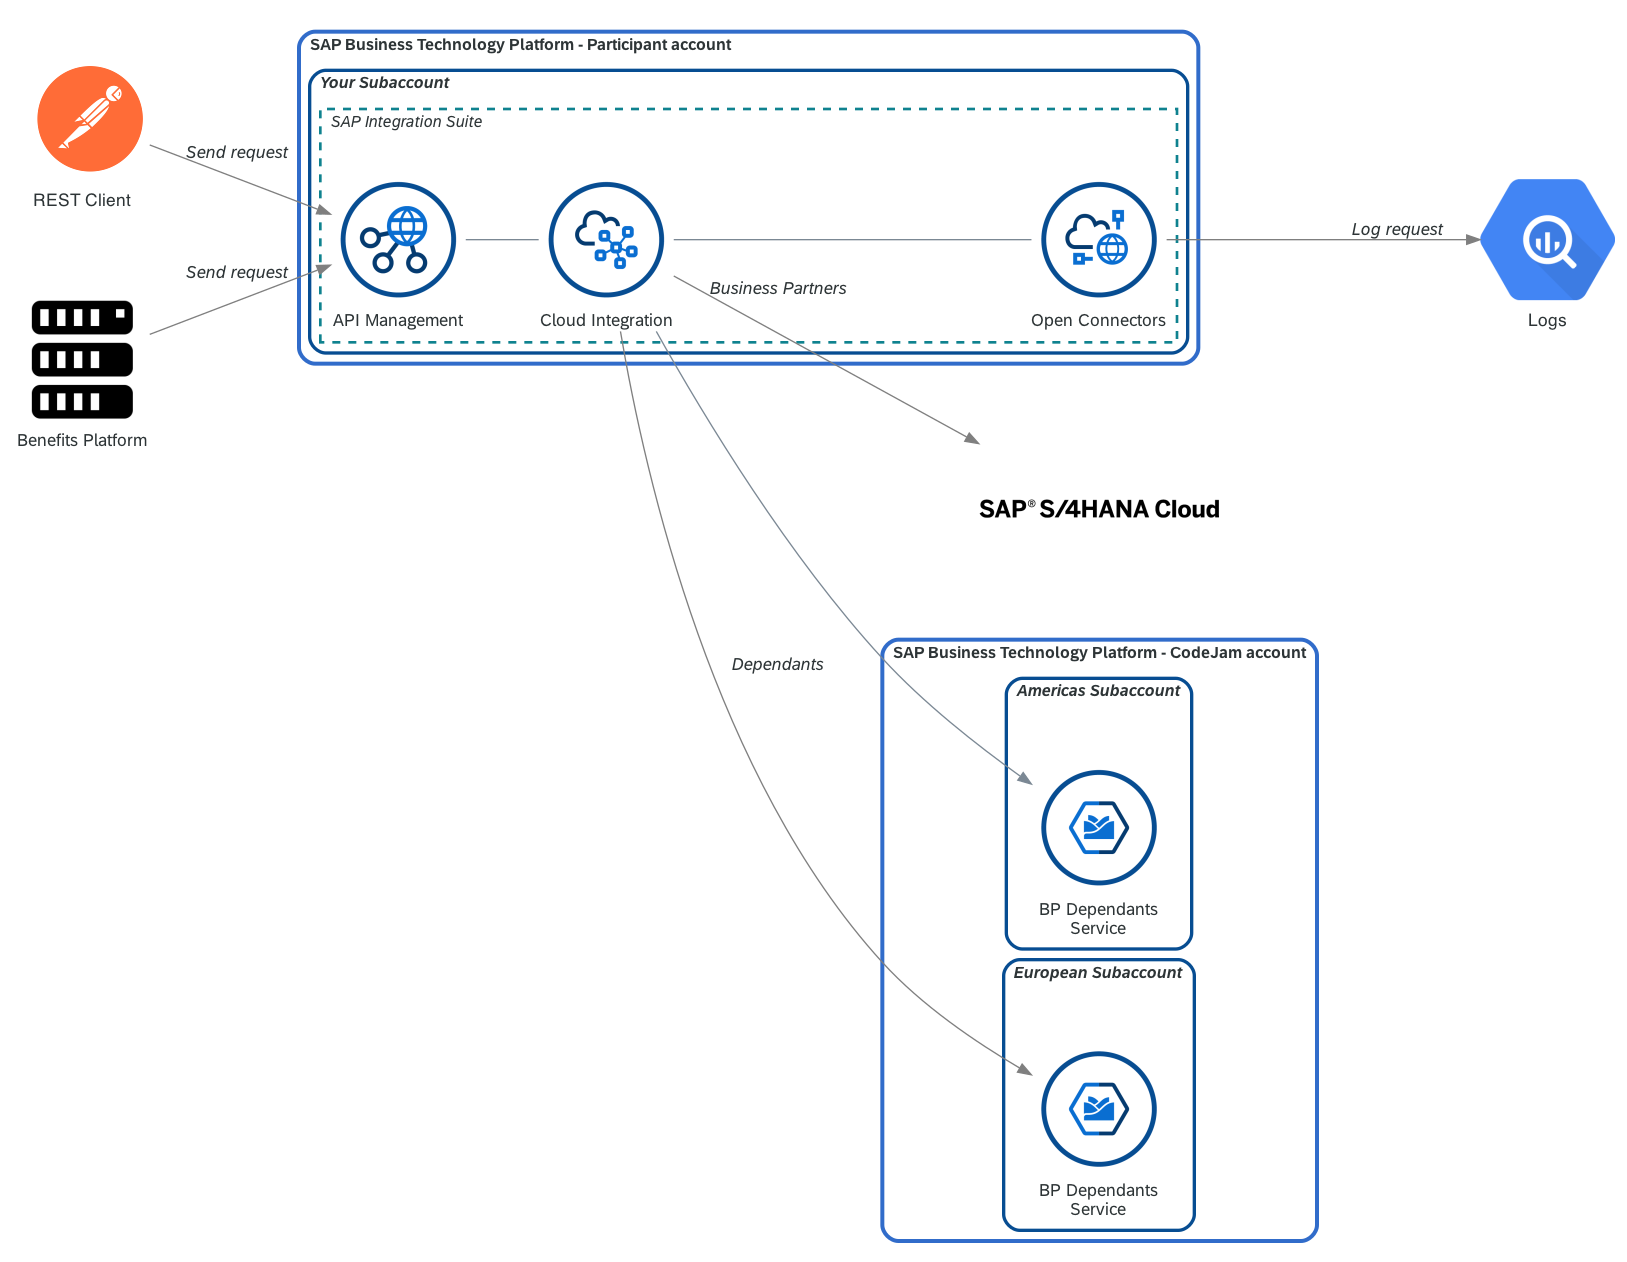
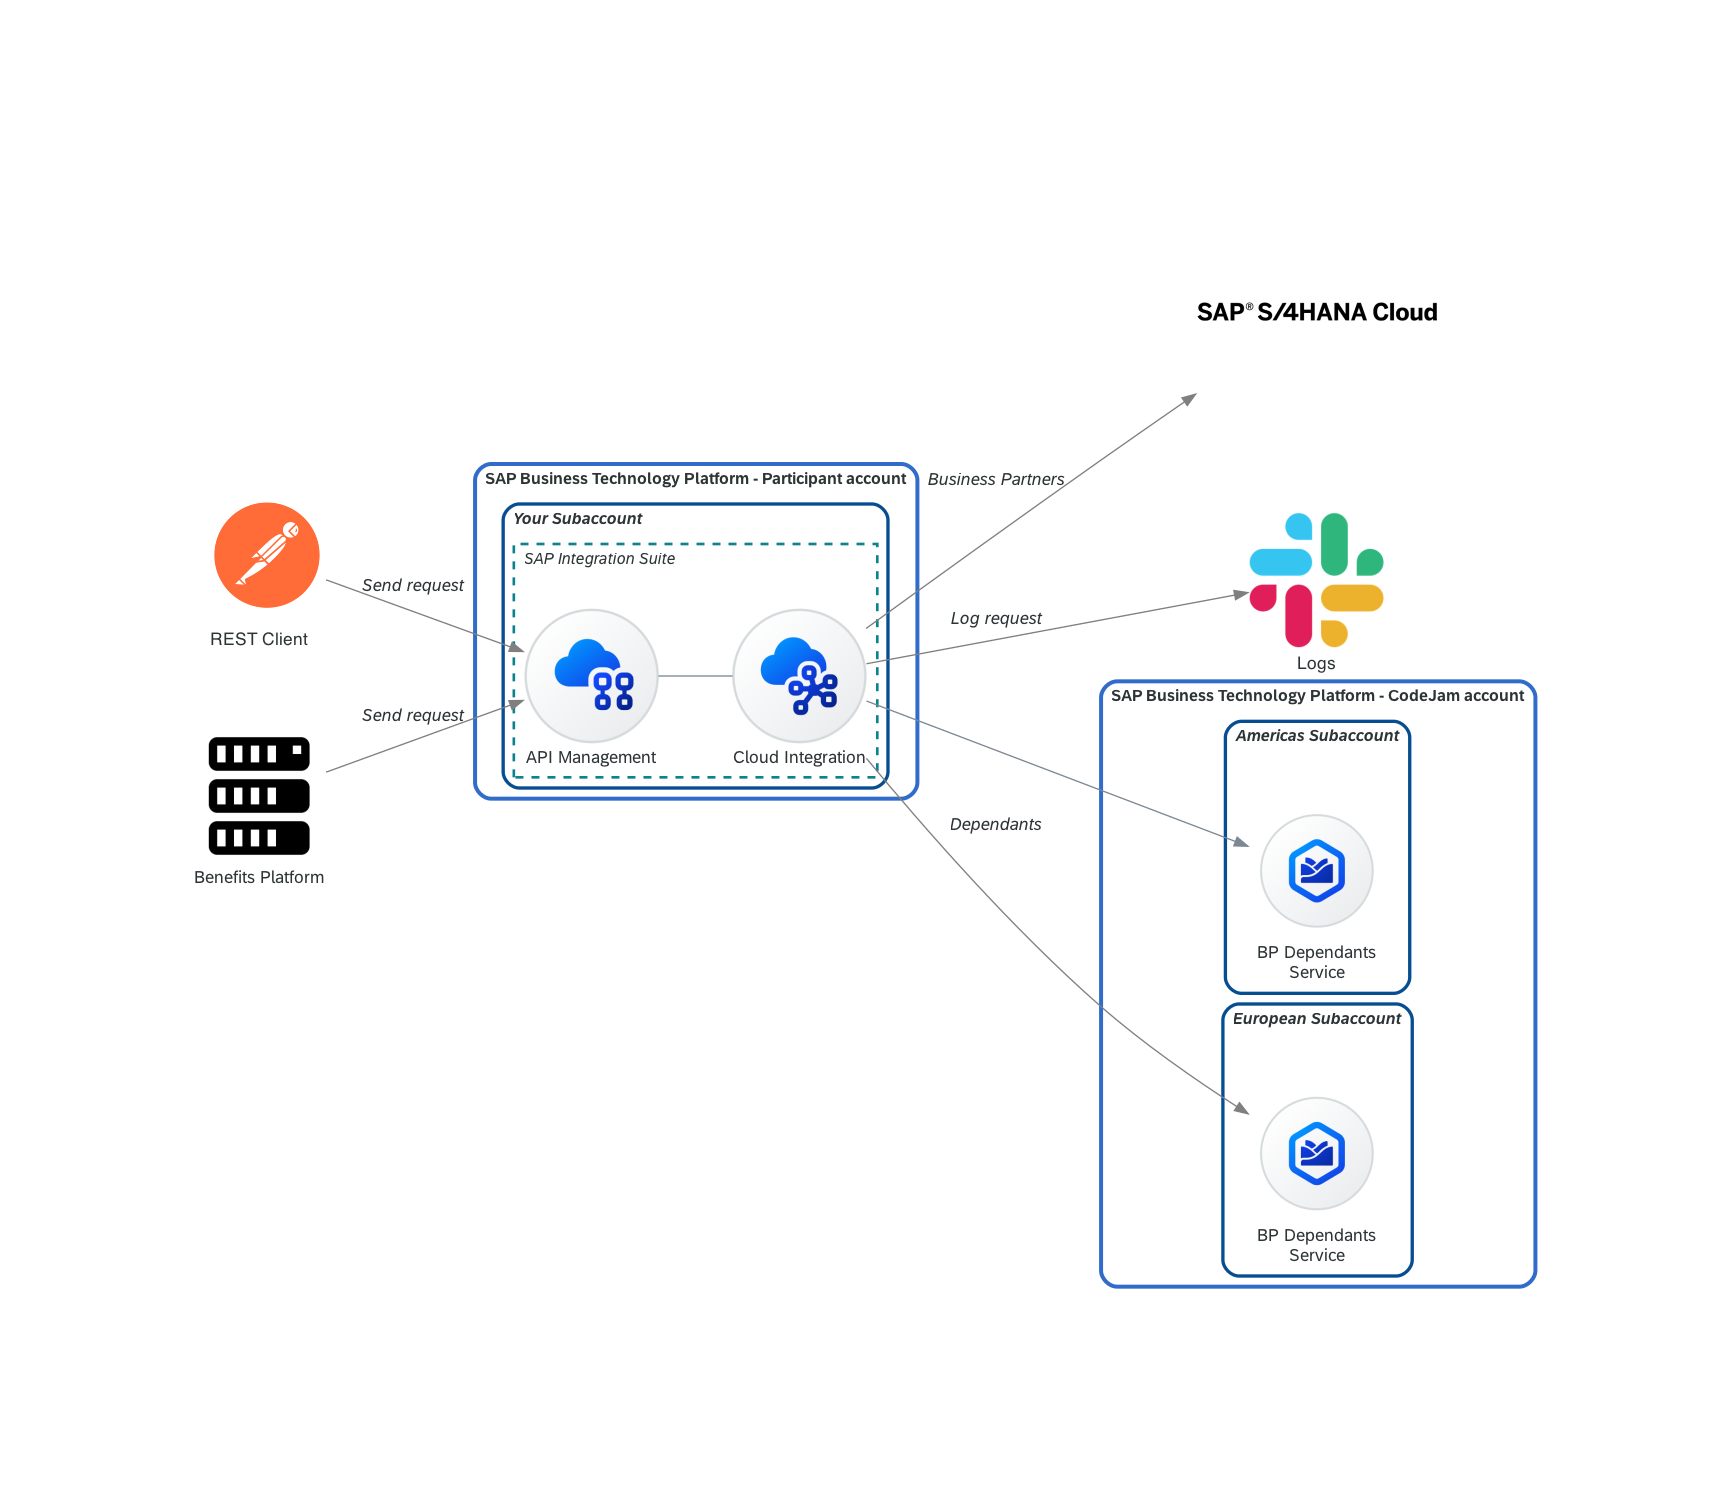
Replacing BQ with Slack in diagrams

diff --git a/exercises/05-log-requests-in-slack/assets/diagrams/slack-diagram.py b/exercises/05-log-requests-in-slack/assets/diagrams/slack-diagram.py
@@ -1,8 +1,6 @@
-# tech-byte-diagram.py
-from diagrams import Cluster, Diagram, Edge
-from diagrams.onprem.compute import Server
+from diagrams import Cluster, Diagram, Edge, Node
 from diagrams.custom import Custom
-from diagrams.sap.integration import CloudIntegration, OpenConnectors, APIManagement
+from diagrams.sap.integration import CloudIntegration
 from diagrams.sap.runtimes import KymaRuntime
 from diagrams.saas.chat import Slack
 from diagrams.sap.erp import SAPS4HANACloud
@@ -24,34 +22,31 @@ PRIMARY_EMPHASIZE_AREA_GRAPH_ATTR = {
 NODE_LABEL = {"fontname": "72 Regular"}
 EDGE_LABEL = {"color": FIX_GREY_COLOUR, "fontname": "72 Italic"}
 
-with Diagram("", show=False, filename="final_data_flow", graph_attr={"splines": "true"}):
-    rest_client = Custom("REST Client", "../postman-logo.png")
-    benefits_platform = Server("Benefits Platform", **NODE_LABEL)
+with Diagram("", show=False, filename="slack_data_flow", graph_attr={"splines": "true"}):
+    rest_client = Custom("REST Client", "../../../../assets/postman-logo.png")
     sap_server = SAPS4HANACloud(**{"height": "2.5", "width": "2.5"})
     slack = Slack("Logs")
 
     with Cluster("SAP Business Technology Platform - CodeJam account", graph_attr=GLOBALACCOUNT_GRAPH_ATTR):
-        with Cluster("Americas subaccount", graph_attr=SUBACCOUNT_GRAPH_ATTR):
-            americas_service = KymaRuntime("BP Dependants\nService", **NODE_LABEL)
-
         with Cluster("European subaccount", graph_attr=SUBACCOUNT_GRAPH_ATTR):
             european_service = KymaRuntime("BP Dependants\nService", **NODE_LABEL)
+        
+        with Cluster("Americas subaccount", graph_attr=SUBACCOUNT_GRAPH_ATTR):
+            americas_service = KymaRuntime("BP Dependants\nService", **NODE_LABEL)
             
     with Cluster("SAP Business Technology Platform - Participant account", graph_attr=GLOBALACCOUNT_GRAPH_ATTR):
         with Cluster("Your subaccount", graph_attr=SUBACCOUNT_GRAPH_ATTR):
             with Cluster("SAP Integration Suite", graph_attr=PRIMARY_EMPHASIZE_AREA_GRAPH_ATTR):
                 cloud_integration = CloudIntegration("Cloud Integration", **NODE_LABEL)
-                api_management = APIManagement("API Management", **NODE_LABEL)
                 
                 cloud_integration >> Edge(label="Business Partners", **EDGE_LABEL) >> sap_server
 
+                cloud_integration >> Edge(label="Dependants", **EDGE_LABEL) >> european_service
+                
+                cloud_integration >> Edge(label="Dependants", **EDGE_LABEL) >> americas_service
+
+                rest_client >> Edge(label="Send request", **EDGE_LABEL) >> cloud_integration
+
                 cloud_integration >> Edge(label="Log request", **EDGE_LABEL) >> slack
 
-                cloud_integration >> americas_service
-
-                cloud_integration >> Edge(label="Dependants", **EDGE_LABEL) >> european_service
-
-
-                benefits_platform >> Edge(label="Send request", orientation="135", **EDGE_LABEL) >> api_management
-                rest_client >> Edge(label="Send request", **EDGE_LABEL) >> api_management
-                api_management - cloud_integration
+                

diff --git a/exercises/04.1-retrieve-bp-dependants/assets/diagrams/bp-diagram.py b/exercises/04.1-retrieve-bp-dependants/assets/diagrams/bp-diagram.py
@@ -7,7 +7,6 @@ from diagrams.custom import Custom
 from diagrams.sap.other import Placeholder_Circle
 from diagrams.sap.integration import ProcessIntegration_Circle, OpenConnectors_Circle, APIManagement_Circle
 from diagrams.sap.runtimes import KymaRuntime_Circle
-from diagrams.gcp.analytics import BigQuery
 from diagrams.sap.erp import SAPS4HANACloud
 
 # SAP BTP Solution Diagrams and Icons guidelines colors

diff --git a/exercises/04.2-add-americas-bp-dependants/assets/diagrams/bp-americas-diagram.py b/exercises/04.2-add-americas-bp-dependants/assets/diagrams/bp-americas-diagram.py
@@ -7,7 +7,6 @@ from diagrams.custom import Custom
 from diagrams.sap.other import Placeholder_Circle
 from diagrams.sap.integration import ProcessIntegration_Circle, OpenConnectors_Circle, APIManagement_Circle
 from diagrams.sap.runtimes import KymaRuntime_Circle
-from diagrams.gcp.analytics import BigQuery
 from diagrams.sap.erp import SAPS4HANACloud
 
 # SAP BTP Solution Diagrams and Icons guidelines colors

diff --git a/README.md b/README.md
@@ -75,7 +75,7 @@ See below for an overview of the exercises part of this CodeJam.
   * [Exercise 04 - Send messages and monitor our integration flow](./exercises/04-send-messages-and-monitor/README.md#exercise-04---sending-messages-and-monitoring-our-integration-flow)
     * [(Optional) Exercise 04.1 - Retrieve Business Partner dependant's information](./exercises/04.1-retrieve-bp-dependants/README.md#optional-exercise-041---retrieve-business-partner-dependants-information)
     * [(Optional) Exercise 04.2 - Add the America's instance of the Business Partner Dependants service](./exercises/04.2-add-americas-bp-dependants/README.md#optional-exercise-042---add-the-americas-instance-of-the-business-partner-dependants-service)
-  * [Exercise 05 - Log service call in Google BigQuery (Open Connectors)](./exercises/05-log-requests-in-bigquery/README.md#exercise-05---log-request-in-bigquery)
+  * [Exercise 05 - Log service call in Slack](./exercises/05-log-requests-in-slack/README.md#exercise-05---log-request-in-slack)
   * [Exercise 06 - Expose integration flow via API Management](./exercises/06-expose-integration-flow-api-management/README.md#exercise-06---expose-integration-flow-via-api-management)
   * [(Optional) Exercise 01 - Running locally services used in CodeJam](./exercises/optional-01-running-locally/README.md#optional-exercise-01---running-locally-services-used-in-codejam)
 
